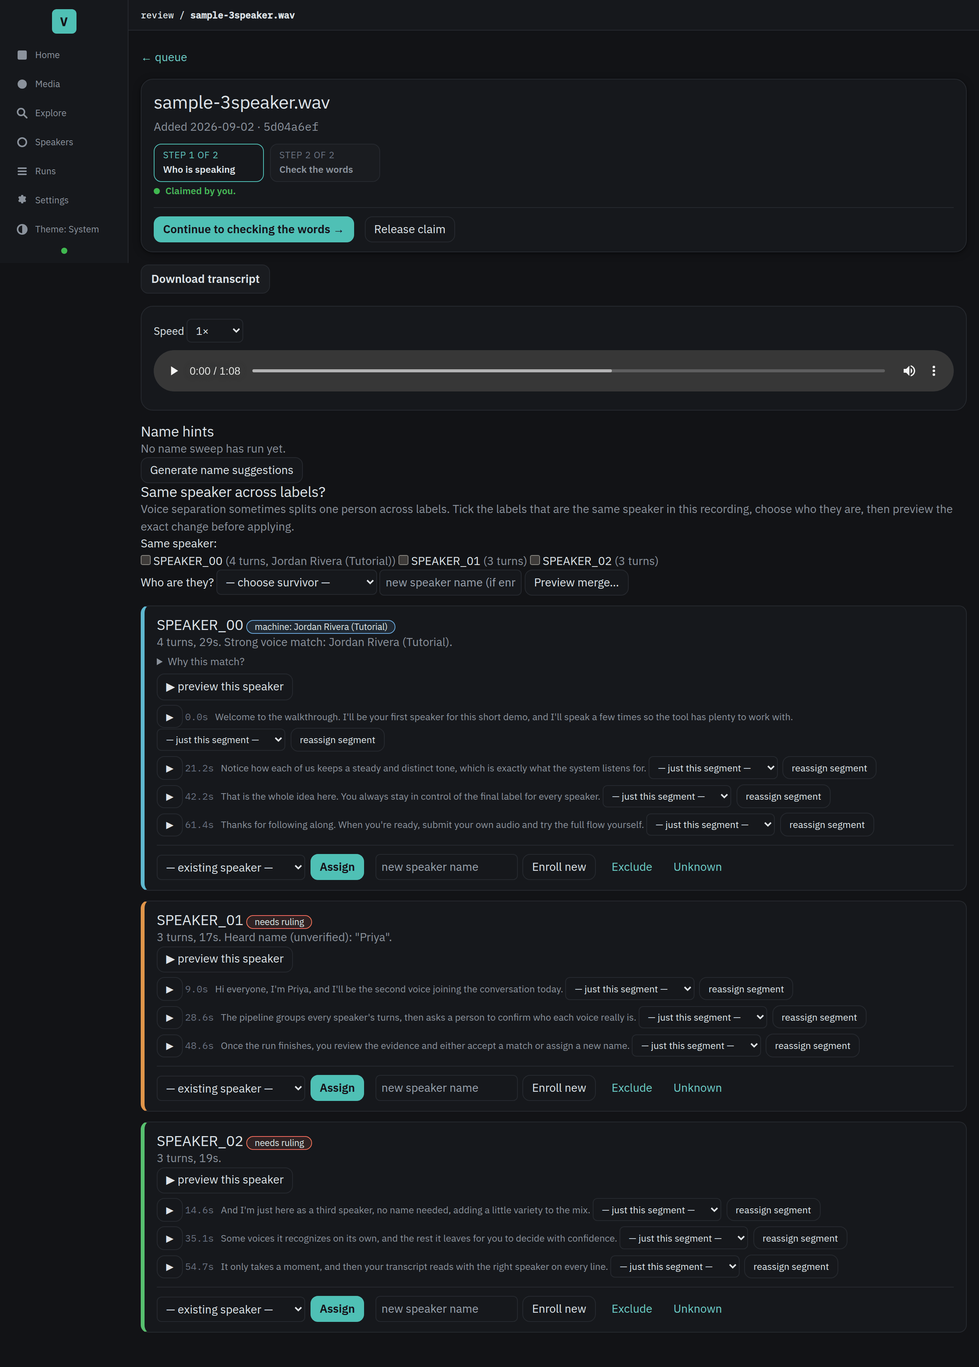
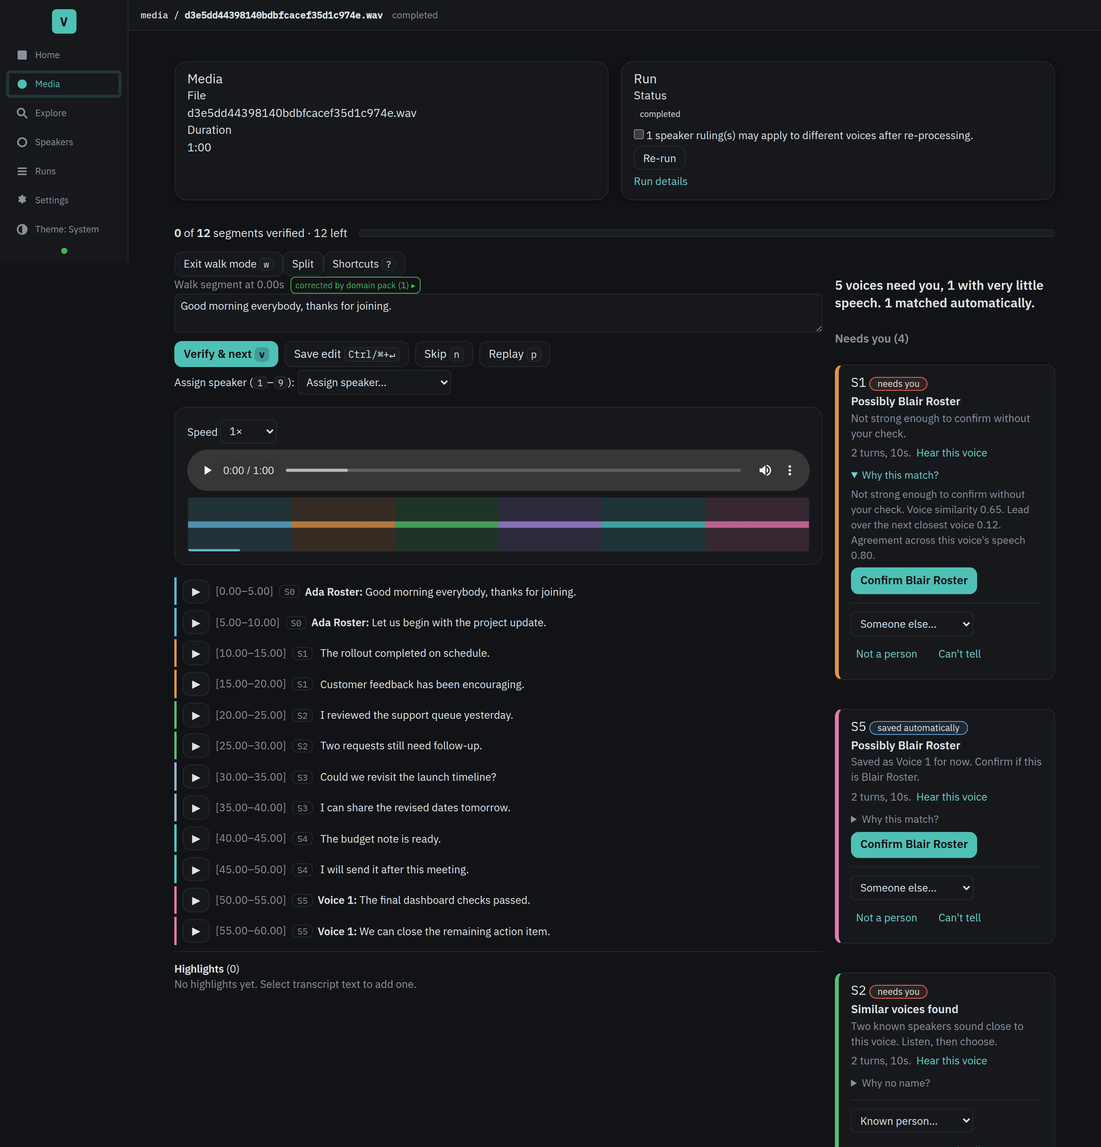
docs(#115): rewrite Workflow A around the speaker rail, refresh the workbench shot
The how-to now describes the summary sentence, the four rail groups, the
card anatomy, Hear this voice, Confirm and the other actions, and the Change
toggle, and no longer claims strong matches wait for acceptance or that a
per-card preview button exists. Managing speakers documents Add a new person
and auto-saved Voice N speakers; architecture.md records the band partition
and the editor-cursor playback seam; testing.md drops the stale "no vitest"
note and mentions the rail fixture. The browser-lane skill gains the rail
walkthrough that was just run (partition, copy, Hear this voice, Confirm on
both the unresolved and auto-saved paths, rulings, the honest enroll error on
an embedding-less seed, the finish line, and the label_rulings reconcile).
review-workbench.png is recaptured against the rail fixture. The unmatched
card's disclosure now reads "Why no match?".

Claude-Session: https://claude.ai/code/session_01VrubnGCHhY3w1vTVv5UYw6

diff --git a/frontend/src/components/SpeakerRail.tsx b/frontend/src/components/SpeakerRail.tsx
@@ -230,7 +230,11 @@ function SpeakerCard({
       {explanation && (
         <details className="match-why">
           <summary className="text-sm">
-            {isAmbiguous(state) ? "Why no name?" : "Why this match?"}
+            {isAmbiguous(state)
+              ? "Why no name?"
+              : isConfirmable(state)
+                ? "Why this match?"
+                : "Why no match?"}
           </summary>
           <p className="muted text-sm">{explanation}</p>
         </details>

diff --git a/docs/how-to/reviewing-and-adjudicating.md b/docs/how-to/reviewing-and-adjudicating.md
@@ -4,9 +4,9 @@
 voices, then check and correct the words.*
 
 Voxint listens to your recording and makes its best guesses about who spoke,
-when, and what they said. Those guesses are **proposals**. This
-guide walks you through the review console, where **you have the final say**: you
-confirm or overrule every proposal, and nothing is settled until you say so.
+when, and what they said. This guide walks you through the review console, where
+you have the final say: you confirm the matches Voxint is unsure about, rule on
+the voices it could not match, and change any automatic match that is wrong.
 
 Review has two steps: start with the people, then check the words.
 
@@ -18,8 +18,8 @@ Review has two steps: start with the people, then check the words.
   are wrong.
 
 The console leads you from Step 1 to Step 2, and you can go back to the people at
-any time. Checking the words is recommended, not required: your speaker rulings
-are what settle a run.
+any time. Checking the words is recommended, not required. Voice matches and
+your speaker rulings determine when a run leaves Review.
 
 New to Voxint? The bundled [guided tutorial](../onboarding.md#3-guided-tutorial)
 walks this whole loop on a sample recording before you use your own audio; a
@@ -76,65 +76,92 @@ does the same when you open it. There is no separate claiming step.
 
 ## Workflow A: Identify the voices
 
-Opening a run shows the **slot workbench** (`/review/{id}`). Voxint separated
-the recording into voices and gave each one a placeholder label like
-`SPEAKER_00`. Your job here is to say who each label really is.
+Opening a run shows the editor with the speaker rail beside the transcript.
+Voxint separated the recording into voices and gave each one a label such as
+`SPEAKER_00`. The sentence at the top tells you how much work remains, for
+example "2 voices need you, 1 with very little speech. 3 matched
+automatically." When you are done it reads "Every voice has a ruling." If
+matching never ran on the recording, or you had not added any people yet when
+it ran, the sentence says that instead, so an empty result is never mistaken
+for a clean one.
 
-Each voice gets a **card** showing what Voxint knows about it (how many turns
-it took and how many seconds it spoke) plus whatever evidence it could gather
-about the person's identity. Read the evidence carefully, because there are
-**three very different kinds**, and Voxint labels them honestly:
+The rail puts voices into these groups:
 
-- **A grounded machine match.** "Strong voice match: *Jordan*." Voxint compared
-  this voice's sound to speakers you enrolled before and found a close match
-  against real voice evidence. Open **Why this match?** to see the exact
-  similarity score behind it. A weaker match reads "Possible voice match"
-  instead. This is the strongest signal, but it is still a suggestion for
-  **you** to accept.
-- **A heard name (a guess).** "Heard name (unverified): *"Alex"*" or
-  "Self-introduced (unverified): *"…this is Alex…"*." Someone in the audio said
-  a name. That tells you a name is *probably* in the room; it does **not** tell
-  you this voice belongs to that person. Treat it as a lead, not a fact.
-- **No name at all.** Voxint has a voice but nothing to attach to it. You
-  decide entirely.
+- **Needs you** is open. These voices need your decision.
+- **Too little speech to identify** is closed at first. These voices still need
+  a ruling, so open the group and review them.
+- **Matched automatically** is closed while work remains. These voices are
+  settled by a strong voice match or an automatic save.
+- **Your rulings** is also closed while work remains. It holds decisions you
+  made during review.
 
-**Grounded is not the same as heard.** A *grounded* match is measured from the
-voice itself, against speakers you enrolled. A *heard* name is just words the
-recording contained. Never let a heard name stand in for identity on its own;
-confirm it by listening.
+When no voice still needs a ruling, **Matched automatically** and **Your
+rulings** open. You can open or close any group shown with a disclosure arrow.
 
-![A voice card in the review workbench showing three kinds of evidence: a
-grounded cosine match to an enrolled speaker, a heard name marked unverified,
-and a voice with no name, each with Assign, Enroll new, Exclude, and Unknown
-buttons.](../images/review-workbench.png)
+![The speaker rail beside the transcript, with its summary sentence, an open
+Needs you group, and disclosures for voices with too little speech, automatic
+matches, and your rulings.](../images/review-workbench.png)
 
-### Listen before you rule
+### Read a voice card
 
-Each card has a **preview this speaker** button that plays a clean stretch of
-this voice, and each transcript line under it has its own play button for just
-that line. Use them to confirm what you're about to decide. (If playback controls
-are greyed out, a banner explains why, usually that the audio can't be reliably
-lined up with the timeline; you can still scrub the main player by hand.)
+A card starts with the voice label and a pill such as **needs you** or **saved
+automatically**. Its headline and reason explain what Voxint found:
 
-### Rule on each voice
+- **Possibly Jordan** means the voice resembles a known person but needs your
+  check. The reason reads **Not strong enough to confirm without your check.**
+  Press **Confirm Jordan** if the match is right. Confirming assigns the existing
+  speaker to this recording. It does not add another voice sample.
+- A possible match can also say **Saved as Voice 4 for now. Confirm if this is
+  Jordan.** Voxint already saved the voice under a temporary name, but the
+  possible match still needs your ruling.
+- **Similar voices found** means two known speakers sound close. No candidate
+  name or **Confirm** button is shown. Open **Why no name?** for the explanation,
+  then listen and choose.
+- **Who is this?** appears when Voxint has no useful candidate. The reason says
+  why in plain words, for example **Not enough clear speech to match.** or
+  **No known speakers to compare against.**
 
-Every card gives you four choices:
+Below the reason, the card shows the number of turns and seconds of speech. If
+the audio can be played from the timeline, **Hear this voice** jumps to the
+first transcript line for that voice and plays it. Listen before you rule.
+
+Open **Why this match?** (or **Why no match?** on a card with no candidate) to
+see the reason followed by the raw scores, such as "Voice similarity 0.72. Lead
+over the next closest voice 0.05. Agreement across this voice's speech 0.75."
+With one known person on your roster the lead reads "none (only one known
+speaker)." These scores are never shown as percentages.
+
+> **A voice match and a heard name are different evidence.** A voice match
+> compares the sound with saved voice samples. The line **Heard name
+> (unverified): "Alex".** reports a name spoken in the recording. Treat it as a
+> lead and listen before assigning the voice.
+
+### Rule on a voice
+
+Use the actions on the card:
 
 | Action | What it does |
 |---|---|
-| **Assign** | This voice is an **existing** speaker on your roster. Pick them from the list. |
-| **Enroll new** | This is a **new** person. Type their name; Voxint adds them to your roster and remembers this voice for next time. |
-| **Exclude** | This "voice" isn't a person you want in the results (background noise, a TV, a passer-by). Leave it out. |
-| **Unknown** | You genuinely can't tell who this is. A valid, honest ruling, better than a wrong guess. |
+| **Confirm Jordan** | Records your ruling that this voice is the suggested known person. It does not add a voice sample. |
+| **Someone else…** or **Known person…** | This voice is a different person from your roster: pick them from the list. Choose **Add a new person…** at the end of the list to type a name, then press **Add person**; that adds them to your roster and keeps this voice as their sample. **Cancel** closes the name box. |
+| **Not a person** | This "voice" is background noise, music, a TV, or someone you do not want in the results. Leaves it out. |
+| **Can't tell** | You genuinely cannot tell who this is. An honest ruling that settles the voice; you can change it later. |
 
-A card's pill shows where it stands: **needs ruling**, **assigned**,
-**excluded**, **unknown**, or a **machine** suggestion still waiting for your
-accept. A voice is "resolved" once you've ruled on it.
+### Check automatic matches and earlier rulings
 
-If Voxint offered **name hints** (from metadata or the transcript), you can
-**Accept** or **Reject** each one. Accepting a hint records your review of it; it
-does **not** assign a speaker. Assigning is always the explicit **Assign** or
-**Enroll new** action.
+Open **Matched automatically** to see voices already shown as a known person.
+A voice match has a **voice match** pill and reads **Shown as Jordan**, with the
+reason **Matched by voice.** An automatically saved voice has a **saved
+automatically** pill and reads **Saved as Voice 4**. Its reason is **Saved
+automatically so Voxint can recognise this voice later. Name them on the
+Speakers page.** The **Speakers page** link takes you there.
+
+Open **Your rulings** to see rows with a **your ruling** pill. They read the
+person's name with **Your ruling.**, **Left out** with **Your ruling: not a
+person.**, or **Could not tell** with **Your ruling.**
+
+Each row has **Change**. Press it to reveal the same actions with a **Reassign
+to…** picker. Press **Hide** to close the actions again.
 
 ### One person split across two labels ("same speaker")
 
@@ -143,7 +170,7 @@ Diarization sometimes splits **one** person into two labels: you'll see
 with the **"Same speaker across labels?"** panel:
 
 1. **Tick** the labels that are the same person in this recording.
-2. Choose **who they are**: an existing speaker, or enroll a new one.
+2. Choose **who they are**: an existing speaker, or **Add a new person…**.
 3. Press **Preview merge…** to see the **exact change** Voxint will make (how
    many turns and transcript segments move) before anything happens.
 4. **Confirm**.
@@ -335,8 +362,9 @@ A few deliberate rules:
 
 ## Finishing a run
 
-A run leaves the **Review** list once **every voice has a ruling** (the workbench
-cards all show a decision, not "needs ruling"). Checking the words in Step 2 is
+A run leaves the **Review** list once every voice has your ruling or a strong
+voice match. A voice with very little speech still needs a ruling; **Not a
+person** and **Can't tell** both settle it. Checking the words in Step 2 is
 recommended, and it is how you get a transcript you can fully trust, but it is
 not what removes the run from Review. A run can drop off the list with some lines
 still unchecked. To keep checking or to export it afterwards, reopen it from

diff --git a/docs/architecture.md b/docs/architecture.md
@@ -252,7 +252,13 @@ enrichment tables. The speakers overview (`/speakers`) and detail
 per-speaker aggregates folded from effective resolution
 (`speakers/aggregate.py`: one canonical newest completed run per recording,
 human rulings over automatic matches), with voice-match tiers graded against
-the live matching gates (`speakers/tiers.py`).
+the live matching gates (`speakers/tiers.py`). The review console partitions
+labels through the three-band policy (`speakers/policy.py`, `MatchBand`);
+`LabelState` carries `candidateSpeakerId` / `candidateSpeakerName` plus
+`matchSimilarity`, `matchMargin`, and `matchVoteAgreement`, and auto-enrolled
+labels are banded from live evidence like unresolved labels. The rail derives
+its groups and copy in the pure
+`frontend/src/lib/speaker-bands.ts` module.
 - **Removing an embedding** hard-deletes the derived centroid (the minting
   decision and the raw `diarization_turns` vectors survive) and deletes all of
   that speaker's cosine assignments, because assignments carry no centroid
@@ -882,23 +888,12 @@ subsystem and adds no page routing.
   via `readProps()` and call voxint's own routes through the shared
   `api-client.ts` `apiFetch`, whose `ApiError` mirrors FastAPI's `{detail}`
   shape, the seam #54/#55 consume for capability-aware responses.
-- **Per-turn playback + fail-closed seek gating (issues #49/#55).** Two islands
-  add "play this turn"/"preview this speaker" seeking. `transcript-player`
-  (transcript.html) is fully in-React: per-line ▶ buttons and click-to-seek call
-  the shared `lib/playback.ts` `playTurn`, which seeks + plays + stops at the
-  segment end via a rate-aware guard (a one-shot `timeupdate` check plus a
-  `setTimeout` fallback, so a coarse timeupdate can't overshoot into the next
-  voice) and holds exactly one cancellable active turn. `workbench-player`
-  (run.html) is the harder case: the per-turn buttons are **server-rendered
-  inside `#labels`**, which every adjudication ruling replaces via
-  `hx-swap="innerHTML"`. So the island mounts **outside `#labels`** (wrapping the
-  `<audio>`, which survives swaps) and drives those buttons with **document-level
-  event delegation**: one delegated `click` listener scoped to the current
-  `#labels`, plus an `htmx:afterSwap` listener filtered to `#labels` swaps that
-  re-runs an "enable pass". Buttons render `disabled` + `type="button"`
-  server-side (honest JS-off default, never submitting a form); the island
-  removes `disabled` only when seeking is safe. Both listeners are installed in a
-  single StrictMode-safe effect with symmetric cleanup.
+- **Per-turn playback + fail-closed seek gating (issues #49/#55).** The
+  `media-editor` island owns the audio player, transcript, walk cursor, and
+  speaker rail. Per-line playback calls `TranscriptPlayer.playSegment()`.
+  **Hear this voice** finds the first transcript segment for the label and moves
+  the walk cursor there, which seeks and starts playback. The rail receives this
+  callback only when the playback capability allows seeking.
 - **The fail-closed capability contract (issue #55).** `api/playback.py`'s
   `playback_capability()` is the seek predicate: `seek_enabled` is true only when
   the media is actually servable, the duration is finite and positive, every
@@ -908,9 +903,6 @@ subsystem and adds no page routing.
   the islands show in a visible banner, never a bare tooltip. Media servability
   reuses `resolve_servable_media()`, the **single seam** `GET /media` itself
   calls, so capability can never advertise seeking while `/media` would 404/410.
-  "Preview this speaker" seeks a clean `DiarizationTurn` (longest non-overlap,
-  fallback longest), never the longest transcript segment, which carries only a
-  dominant-overlap label and can contain other voices.
 - **Follow-along highlight + per-speaker colors (issues #50/#47).** The
   `transcript-player` island keeps the active line in view as playback advances:
   a callback ref on the active `<p>` plus a `scrollIntoView({ block: "nearest" })`

diff --git a/.claude/skills/voxint-e2e-review/SKILL.md b/.claude/skills/voxint-e2e-review/SKILL.md
@@ -205,6 +205,57 @@ regions. Assert:
 The strip is `aria-hidden` (the list is the accessible surface): never assert
 on its accessibility tree, only `data-*` attributes, the canvas, and network.
 
+### Speaker rail (#115)
+
+Seed with `--fixture rail` (12 segments, labels S0..S5, a four-person roster
+including the auto-saved `Voice 1`). Open `/runs/<RUN_ID>` and click **Review**:
+it claims the run and lands on `/media/<MEDIA_ID>/editor?run=…&token=…`, where
+the rail mounts as `[aria-label="Speaker rail"]`. Assert, in order:
+
+- **Initial partition.** `.rail-summary` reads exactly "5 voices need you, 1
+  with very little speech. 1 matched automatically."; the `Needs you (4)`
+  section lists S1, S5, S2, S3 in that order (confirmable unresolved, confirmable
+  auto-saved, ambiguous, unmatched); `Too little speech to identify (1)` (S4)
+  and `Matched automatically (1)` (S0) are closed `<details>`; no `Your rulings`
+  group yet.
+- **Card copy.** S1: "Possibly Blair Roster" + `button "Confirm Blair Roster"`,
+  pill `needs you`. S5: same headline, pill `saved automatically`, detail "Saved
+  as Voice 1 for now. Confirm if this is Blair Roster." S2: "Similar voices
+  found", **no** Confirm button, its disclosure is titled "Why no name?" and
+  its text names nobody and carries no numbers. S3: "Who is this?" with
+  disclosure "Why no match?". Open S1's "Why this match?": the text carries the
+  raw numbers (0.65 / 0.12 / 0.80) and no percent sign.
+- **Hear this voice.** Instrument `play()` as for `p`, click S1's button → one
+  `play()` call at `currentTime` 10 (S1's first line), the walk line reads
+  "Cursor on segment at 10.0 seconds, speaker S1", and **no** `/labels/` or
+  `/segments/` request fires.
+- **Confirm.** Click S1's Confirm → exactly one `POST …/labels/S1/decision`
+  (200); S1 moves to `Your rulings`, the summary drops to "4 voices need you…",
+  and the transcript lines for S1 now read "Blair Roster:". Repeat on S5 (the
+  auto-saved path) → `POST …/labels/S5/decision`.
+- **Rulings.** `Can't tell` on S3 and, after opening the too-short group,
+  `Not a person` on S4 → one decision POST each; S4's row reads "Left out".
+- **Add a new person.** On S2 pick "Add a new person…" in the picker → the
+  name box (`aria-label="Name the new person for S2"`) appears focused with
+  **Add person** disabled until text is typed. Submitting fires
+  `POST …/labels/S2/enroll`; on this seed it returns **400** ("no speaker audio
+  to create an identity from": the seed's turns carry no embeddings) and the
+  rail shows that message in its `[role="alert"]` without losing the card. That
+  is the honest error path; do not treat it as a pass for enrollment itself.
+- **Finish line.** `Can't tell` on S2 → summary "Every voice has a ruling." and
+  both `Matched automatically` and `Your rulings` are open; a `Change` button on
+  a resolved row reveals the `Reassign to…` picker.
+
+Reconcile with the rulings you made, for example:
+
+```bash
+--expect '{"verified_segment_indexes":[],"corrections":{},"progress":{"verified":0,"total":12},
+  "label_rulings":{"S1":{"decision":"assign","speaker":"Blair Roster"},
+  "S5":{"decision":"assign","speaker":"Blair Roster"},"S3":{"decision":"unknown","speaker":null},
+  "S4":{"decision":"exclude","speaker":null},"S2":{"decision":"unknown","speaker":null}}}'
+# → ok: 0 of 12 verified; corrections match; 5 label ruling(s) match / RECONCILE PASS
+```
+
 ## 3. Reconcile durable state, then always clean up
 
 Build the expectation from what you drove (segment indexes verified, index→text

diff --git a/docs/how-to/managing-speakers-and-exporting.md b/docs/how-to/managing-speakers-and-exporting.md
@@ -104,22 +104,25 @@ that speaker on future recordings until you enroll a new sample.
 
 ## How a voice joins the roster
 
-Speakers get onto the roster from the **review workbench**, while you are
-adjudicating a recording. When Voxint has separated the voices in a recording, it
-shows them as labels like `SPEAKER_00`. On the label for a voice you recognise,
-type the person's name into the **Enroll new** box and submit it. That creates a
-new roster speaker from that voice.
+Speakers get onto the roster from the **speaker rail**, while you are reviewing
+a recording. When Voxint has separated the voices, it shows them as labels like
+`SPEAKER_00`. On the label for a voice you recognise, open the speaker picker and
+choose **Add a new person…**. Enter their name and press **Add person**. That
+creates a roster speaker from the voice.
 
-![The review workbench showing a speaker label with controls to assign an
-existing speaker, enroll a new speaker by name, or mark the label
-excluded.](../images/review-workbench.png)
+![The speaker rail showing a voice card with a known-person picker, the Add a
+new person choice, and the Not a person and Can't tell actions.](../images/review-workbench.png)
+
+Voxint can also save a clear new voice automatically under a temporary name such
+as **Voice 4**. The **Matched automatically** group links to the **Speakers
+page**, where you can give that person their name.
 
 From that point on, the enrolled voice becomes a **match candidate**: on later
-recordings, Voxint compares each voice against your roster and proposes a name
-when a voice is close enough. You always confirm the match: Voxint suggests, you
-decide.
+recordings, Voxint compares each voice against your roster. A strong match is
+shown as that speaker automatically. Use **Change** in the speaker rail if it is
+wrong.
 
-For the full walkthrough of assigning, enrolling, and confirming speakers on a
+For the full walkthrough of assigning, adding, and confirming speakers on a
 recording, see **[Reviewing and adjudicating](reviewing-and-adjudicating.md)**.
 
 ### Optional: research a speaker on the web

diff --git a/docs/testing.md b/docs/testing.md
@@ -117,10 +117,10 @@ uv run mypy            # CI form: packages=voxint (do NOT add tests; the parity
 The current integration tests exercise the real stage implementations against
 real Postgres and real ffmpeg but with **fake model providers** (`tests/fakes.py`:
 `FakeASR` / `FakeDiarizer` / `FakeEmbedder` / `FakeLLM` / `FailingLLM`); see
-`tests/integration/test_real_stages_e2e.py`. There is deliberately **no frontend
-test runner** (no vitest/jest): island behaviour is covered by the Python
-integration tests plus the manual browser pass below. Don't add one without
-discussing it; it is bloat this single-operator app does not need.
+`tests/integration/test_real_stages_e2e.py`. Vitest covers pure frontend helpers
+in `frontend/src/lib/*.test.ts`; run it with `cd frontend && npm test`. Island
+component behaviour remains covered by Python integration tests and the browser
+lane below.
 
 ## Choosing review depth and the browser lane
 
@@ -288,6 +288,9 @@ It is built in lanes; **landed so far:**
   database with a COMPLETED run shaped for the loop (an audio artifact,
   `duration_seconds` set, and varied-confidence segments including sub-threshold
   ones so the "uncertain" chips appear), and serves a working-tree instance. The
+  seed also accepts `--fixture rail`, which adds one label of every speaker-rail
+  card kind, and `reconcile` takes a `label_rulings` expectation for the ledger
+  rows the rail's Confirm and ruling buttons write. The
   skill then drives the review-console islands: `v` verify-and-advance, `e` +
   `⌘/Ctrl+Enter` save, `n` skip, `p` replay, click-to-edit, the type-then-verify
   discard warning (warn on the first `v`, advance on the second), and the keymap

diff --git a/README.md b/README.md
@@ -21,13 +21,12 @@ model to polish it. Both are off or opt-in, and clearly labelled.)
 
 ## See it in action
 
-*(All screenshots use a small synthetic three-speaker sample that ships with
-Voxint.)*
+*(All screenshots use small synthetic sample recordings, never real audio.)*
 
 | | |
 |---|---|
-| ![The adjudication queue: completed runs with voices still needing a decision](docs/images/review-queue.png) | ![The workbench: each voice shows its evidence: a confident match to accept, a heard name that is only a guess, or no name at all](docs/images/review-workbench.png) |
-| **Your review queue**: completed recordings waiting for your decisions. | **Attribute each voice**: accept a confident match, judge a heard name, or leave a voice unknown. |
+| ![The adjudication queue: completed runs with voices still needing a decision](docs/images/review-queue.png) | ![The editor with the speaker rail: a summary of how many voices need you, then one card per voice with a possible match to confirm, a Hear this voice button, and plain-language actions](docs/images/review-workbench.png) |
+| **Your review queue**: completed recordings waiting for your decisions. | **Review only the uncertain voices**: strong matches are shown automatically; you confirm the possible ones and rule on the rest. |
 | ![The guided setup wizard's readiness checks, each dependency shown as ready, failed, or unverified](docs/images/setup-wizard.png) | ![Home: needs-attention cards, quick actions, windowed activity counts, and recent activity](docs/images/home.png) |
 | **Guided setup in the browser**: honest readiness checks, plain-language fixes. | **Home** shows what needs your attention and how to add a recording. |
 
